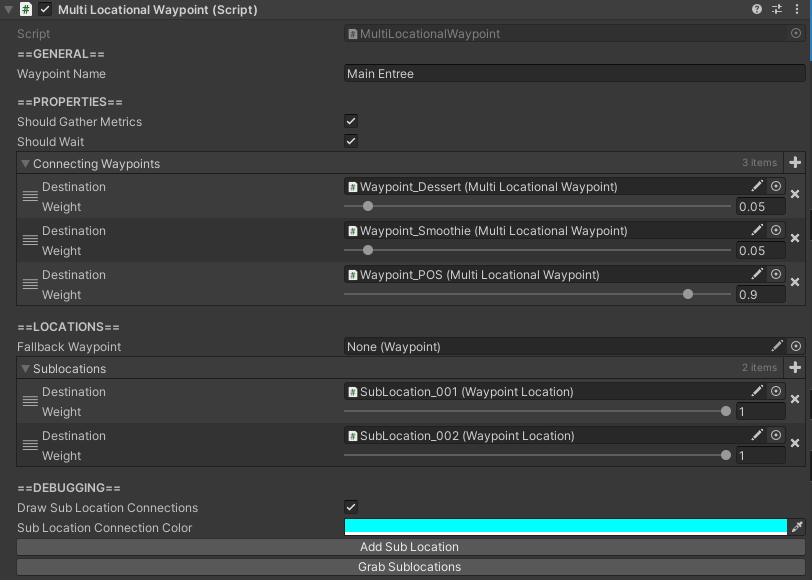
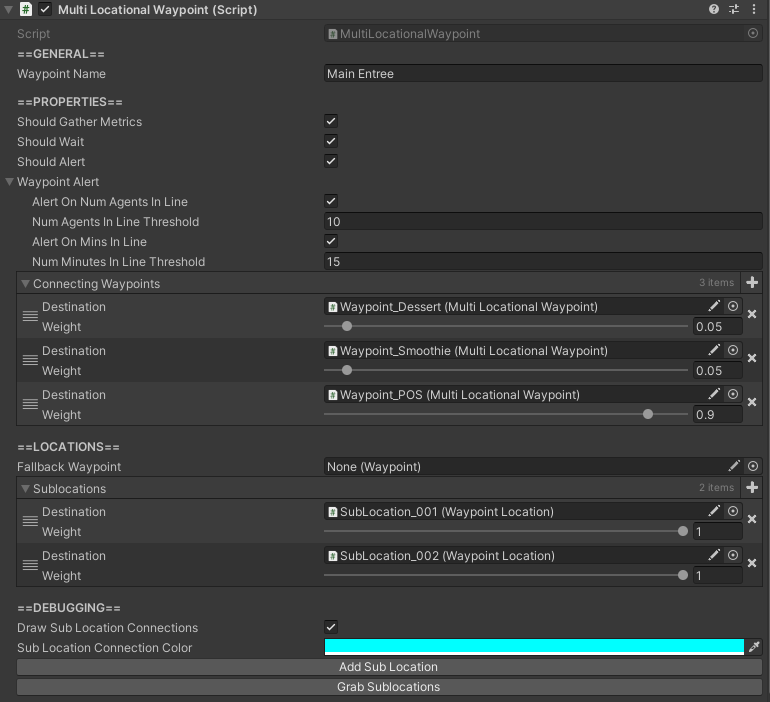
Updated to include overlapping AgentSpawnBlocks, playback menu, and other general edits

diff --git a/docs/config/simulation/agent-spawn-config.md b/docs/config/simulation/agent-spawn-config.md
@@ -4,28 +4,28 @@
 
 ## How to Locate
 
-The `AgentSpawnConfig` component is located on the GameObject named "Simulation", which can be found in the hierarchy.
+The `AgentSpawnConfig` component is located on the GameObject named "SimulationManager", which can be found in the hierarchy.
 
 ## Settings
 
 Setting | Description
 :-------- | :------------------------------------------------------------------------------------------------------------------------------------
-Constant Spawn <br />Rate | Toggles whether or not agents should spawn at a constant rate over the duration <br />of the simulation.
-Start Time | *Only applicable if `Constant Spawn Rate` is `true`.*<br />Start time of the simulation.
-Total Num <br />Agents | *Only applicable if `Constant Spawn Rate` is `true`.*<br />Total agents that will spawn between `Start Time` and `End Time`.
+Constant Spawn <br />Rate | Toggles whether or not agents should spawn at a constant rate over the duration <br />of the simulation.<br />If `true`, only a single `AgentSpawnBlock` can be configured, with an enforced <br />[`Agent Spawn Rate Smoothness`](#spawn-rate-smoothness) of 1.
 Agent Spawn <br />Blocks | *Only applicable if `Constant Spawn Rate` is `false`.*<br />List of references to [`AgentSpawnBlocks`](#agentspawnblock).
-End Time | End time of the simulation.
+Total Agents<br />To Process | *Only applicable if `Constant Spawn Rate` is `false`.*<br />A sum of all the agents that will be spawned across all spawn blocks.<br />Used for debugging only, and is not meant to be modified directly by the user.
 
 ## AgentSpawnBlock
 
-`AgentSpawnBlock`s define how agents will spawn over a period of time.  The end time for each spawn block is the start time of the next spawn block (or `End Time` if it's the last spawn block).
+`AgentSpawnBlock`s define how agents will spawn over a block of time.  Blocks are automatically ordered by their `Start Time`, and are processed in order from earliest to latest.  In other words, the order of the blocks in the list does not matter, as the list is self-organizing.
 
 ### AgentSpawnBlock Settings
 
 Setting | Description
 :-------- | :------------------------------------------------------------------------------------------------------------------------------------
-Start Time | Start time of the simulation spawn block.<br />Also acts as the end time of the spawn block listed previously to this one.
-Num Agents | Total agents that will spawn between `Start Time` of the spawn block, and the `Start Time` of the next block.
+Start Time | Start time of the simulation spawn block.
+End Time | End time of the simulation spawn block.
+Num Agents | Total agents that will spawn between `Start Time` and `End Time` of the spawn block.
+Agent Color | Color of agents that will spawn during this spawn block.
 Agent Spawn <br />Rate Smoothness | How "smooth" the agents will spawn throughout the duration of the spawn block.<br />See [Spawn Rate Smoothness](#spawn-rate-smoothness) for details.
 
 ### Spawn Rate Smoothness
@@ -40,4 +40,4 @@ If spawn rate smoothness was 1, then the lower bound for an agent's spawn rate i
 
 If the spawn rate smoothness was 0.1, then the lower bound for an agent's spawn rate is 10% of `maxTimeBetweenAgents`, which gives us a random time between 6 seconds and 1 minute.  This means that with a smoothness of 0.1, and 60 agents spawning over 1 hour, all 60 agents will spawn between 6 minutes at the lower bound, and 1 hour at the upper bound.  Randomness will determine how close to either of these bounds the simulation actually comes.
 
-In summary, the lower spawn rate smoothness, the most "clumped together" agents may spawn.  The higher it is, the most smooth and consistently agents will spawn across the duration of a spawn block.
+In summary, the lower spawn rate smoothness, the more "clumped together" agents may spawn.  The higher it is, the more smooth and consistently agents will spawn across the duration of a spawn block.

diff --git a/docs/config/waypoints/waypoints.md b/docs/config/waypoints/waypoints.md
@@ -13,6 +13,11 @@ Setting | Description
 Waypoint Name | Name of the waypoint.
 Should Gather <br />Metrics | Toggles whether or not this waypoint should gather metrics.  <br/>If false, it tracks nothing, and agents do not track anything about it.
 Should Wait | Toggles whether or not agents should wait at this waypoint.<br/>If false, agents will not spend any time at this waypoint, and will ignore the <br /> wait time specified by the waypoint's [`WaypointLocation`](waypoint-locations.md).
+Should Alert | *Only applicable if `Should Gather Metrics` is `true`.*<br />Toggles whether or not this waypoint should fire off alerts when certain <br />conditions are met.
+Alert On Num <br />Agents In Line | *Only applicable if `Should Alert` is `true`.*<br />Toggles whether or not this waypoint should fire off an alert when the number <br />of agents in line at this waypoint meets or exceeds the specified threshold.
+Num Agents <br />In Line Threshold | *Only applicable if `Alert On Num Agents In Line` is `true`.*<br />Number of agents in line at this waypoint that must be met or exceeded <br />for an alert to be fired off.
+Alert On Mins <br />In Line | *Only applicable if `Should Alert` is `true`.*<br />Toggles whether or not this waypoint should fire off an alert when the minutes <br />a single agent has spent in line at this waypoint meets or exceeds the <br />specified threshold.
+Num Minutes <br />In Line Threshold | *Only applicable if `Alert On Mins In Line` is `true`.*<br />Number of minutes a single agent can wait in line at this waypoint that must be <br />met or exceeded for an alert to be fired off.
 Connecting <br/> Waypoints | All possible [weighted](../../index.md#weights) waypoints an agent can visit after this waypoint.<br/>*Note: These can be overridden by individual sublocations of this waypoint*.
 Fallback <br />Waypoint | Waypoint that agents will use if all sublocations of this waypoint have <br />no queue and are all currently occupied.<br/>*Note: This does not need to be assigned if at least 1 sublocation has <br/>a queue*.
 Sublocations | All [weighted](../../index.md#weights) sublocations of this waypoint.<br />These are the physical locations that agents can pathfind to when visiting this <br />waypoint.
@@ -25,9 +30,17 @@ Grab Sublocations<br/>Button | Button that grabs all sublocations that are a chi
 
 To create a waypoint, simply duplicate an existing Waypoint and move it to the desired location.
 
+### Setting up Alerts
+
+To set up Alerts on a Waypoint, first make sure that `Should Gather Metrics` is `true`.  Then, set `Should Alert` to `true`.  This will allow you to set up alerts on the Waypoint.
+
+From there, you can set up alerts based on the number of agents in line at the Waypoint, or the number of minutes a single agent has spent in line at the Waypoint.
+
+When an alert is fired off, it will be added to the timeline in the [Playback](../../metrics/playback.md) menu so it can be further investigated later.
+
 ## Selecting a Waypoint
 
-To select a waypoint, simply click on the red sphere that defines the location of the waypoint while the simulation is running.
+To select a waypoint, simply click on the name label of the waypoint while the simulation is running.
 
 When a waypoint is selected correctly, its metrics display will appear.  This shows information about that waypoint, such as its name, the number of agents it has processed, the total time in line agents have spent waiting for this waypoint, and more.
 

diff --git a/docs/quick-start.md b/docs/quick-start.md
@@ -77,11 +77,20 @@ If the GameObject has children GameObjects, ensure those are marked as static as
 
 Any GameObject that does not directly block agents (such as [`PenaltyArea`s](config/simulation/penalty-area.md)) should **NOT** be marked as static, as this should only be done for solid, blocking objects.
 
+### Configuring GameObjects for the Nav Mesh
+
+After all GameObjects have been given a collider and marked as static, the next step is to ensure all objects that should block agents contain a `NavMeshModifier` component.  This component is used to tell the Nav Mesh what areas are walkable and what areas are not.
+If set up correctly, the object will appear to cut out a hole in the blue walkable area of the Nav Mesh (see [Rebaking the Nav Mesh](#rebaking-the-nav-mesh)).
+
+To add a `NavMeshModifier` component to a GameObject, select the GameObject and press the "Add Component" button near the bottom of the Inspector.  Search for "Nav Mesh Modifier" and select the component.  The default values for this component do not need to be changed.
+
 ### Rebaking the Nav Mesh
 
-To rebake the Nav Mesh, first ensure all GameObjects in the scene that should block agents are [marked as static](#marking-gameobjects-as-static) and [have colliders on them](#placing-gameobjects-and-adding-colliders).
+To rebake the Nav Mesh, first ensure all GameObjects in the scene that should block agents are [marked as static](#marking-gameobjects-as-static), [have colliders on them](#placing-gameobjects-and-adding-colliders), and [have a `NavMeshModifier` component](#configuring-gameobjects-for-the-nav-mesh) attached to them.
 
-Next, open the Navigation window.  This can be found via Unity's menu bar (Window>AI>Navigation).  Select the Bake tab in the Navigation window.  Leave the settings as they are, and click the Bake button at the bottom of the Navigation window.  If done correctly, all walkable areas should be highlighted in blue, and all non-walkable areas should not be highlighted at all.
+Next, find the GameObject that acts as the floor for the environment.  If you're using the duplicated example scene, this object is just called "Floor".  Make sure this Floor object has both a `NavMeshSurface` and `NavMeshModifier` component attached to it.  If not, add both components to the Floor object.  The default values for these components (whether you had to add them manually or not) are fine as they are and do not need to be changed.
+
+Click the Bake button at the bottom of the `NavMeshSurface` component.  If done correctly, all walkable areas should be highlighted in blue, and all non-walkable areas should not be highlighted at all.
 
 ### Configure Pathfinding Grid
 
@@ -145,6 +154,14 @@ To view and analyze metrics relating to the global state of the simulation, see 
 To view metrics specific to a single agent or waypoint, see [Specific Metrics](metrics/specific-metrics.md).
 
 To view visualizations of connections between waypoints and connections between a waypoint and it's sublocations, see [Visualizations](metrics/visualizations.md).
+
+---
+
+## Playback and Alerts
+
+To view simulation playback history and alert flags, see [Playback](metrics/playback.md).
+
+To set up alerts for specific waypoints, see [Waypoint Alerts](config/waypoints/waypoints.md#setting-up-alerts).
 
 ---
 

diff --git a/docs/metrics/playback.md b/docs/metrics/playback.md
@@ -1,0 +1,39 @@
+# Playback
+
+![Playback Menu](../img/playbackMenu.png)
+
+## How to Locate
+
+To view the playback menu, simply press 'r' to open the menu.  
+
+Please note that the simulation must be fully completed before the playback menu can be opened.  A simulation is considered fully completed when all agents have reached their final waypoint and despawned.  One can determine this is the case when the simulation time no longer increases (and the simulation is not paused).
+
+## How to Use
+
+To use the playback feature, simply use the time controls in the lower left corner to control the playback speed of the recording.  Just like with the simulation [Time Controls](../config/simulation/time-control.md), the playback speed can be paused, sped up, or slowed down.
+
+Pressing the "Play" button will play the simulation from the current time (if it is currently paused), and also reset the playback speed to 1x.
+
+The current time in the playback can also be set by clicking on the timeline to jump the playback to that moment in time, similar to how a YouTube video might work.
+
+The current progress of the playback is displayed above the timeline, showing the current time in the playback, as well as the percentage of the playback that has been completed.
+
+## Viewing Alerts
+
+Alerts are displayed on the timeline as yellow "flags".  These flags can be clicked on to view the alert in more detail.  The alert will detail which waypoint fired off the alert, what type of alert it was, and a description about what specifically caused the alert to be fired off.
+
+Currently, alerts are fired off once and only once when a specific condition is met.  This means that if the condition is met again on the same waypoint, the alert will not be fired off again.  For example, if a waypoint is set to fire off an alert when the waypoint's line gets past 10 agents, the alert will fire off only when this threshold is met.  If the line then shortens to 9 agents, and then grows back to 11 agents, the alert will not fire off again.  This is to prevent the timeline from being cluttered with alerts that are fired off multiple times for essentially the same reason.
+
+In the future, we may add the ability to define a cool-down period for alerts, so that they can be fired off again after a certain amount of time has passed, or once a condition has been unmet and then met again.
+
+## Limitations
+
+Currently, the playback feature is limited in the following ways:
+
+- Simulations must be fully completed before they can be played back.
+- Playback frame rate is limited to prevent performance issues and may cause playback to appear choppy.
+- Simulation playback is not able to be saved or exported in any way, meaning that once the simulation is closed, the playback is lost.
+- Playback recordings have a low max memory constraint, meaning that simulations with a large number of agents or long durations may lead to memory issues which can cause the simulation to crash.
+- Only agents are recorded in the playback, meaning metrics changing over time (such as the number of agents processed by a waypoint at that point in time) are not recorded and cannot be viewed changing over time.
+
+All of the above limitations can be overcome by further development.

diff --git a/docs/config/waypoints/lerpable-lines.md b/docs/config/waypoints/lerpable-lines.md
@@ -24,19 +24,24 @@ Member Spacing<br/>Visualization Color | *Only applicable if `Draw Member Spacin
 
 ## Line Nodes
 
-A `LerpableLine` is simply a path defined by a list of points.  Each point is represented by a single `Transform` on a GameObject that is a child of the GameObject containing the `LerpableLine` component.  Each Line Node is named "LerpableLineNode_???" with the "???" representing the order of the nodes.
+A `LerpableLine` is simply a path defined by a list of points.  Each point is represented by a single `Transform` on a GameObject that is a child of the GameObject containing the `LerpableLine` component.  Each Line Node is named "LerpableLineNode_???" with the "???" representing the order of the nodes.  
+
+However, the name is purely for organizational purposes, as the order of the nodes is determined by the order of the nodes in the `Nodes` list.
 
 ### How to Create and Position Line Nodes
 
-To create Line Nodes, simply create an Empty GameObject, or duplicate an existing line node.  Rename the Line Node to reflect the order it will be in the path.
+To create Line Nodes, simply press the "Add Path Node" button at the bottom of the component.  This will automatically create, name, and add the new node to the `Nodes` list.  Then, simply move the node to the desired location.
 
 Position the node to the desired location.
 
-### How to Assign Line Nodes to the Path
+### How to Remove Line Nodes
 
-Simply assign the node GameObjects in the `Nodes` list in the order the path should be formed.  Ensure that no empty slots remain in the `Nodes` list, as this will cause the `LerpableLine` to work incorrectly.
+Simply select the node you want to remove and delete it.  The `Nodes` list will automatically update.
+
+### How to Change the Order of Line Nodes
+
+The order a agent will progress through a `LerpableLine` is determined by the order of the nodes in the `Nodes` list.  To change the order, simply drag and drop the nodes in the list to the desired order.  This can be done by clicking and dragging three horizontal lines to the left of the node name.
 
 ## Tips
 
-- To more easily position [Line Nodes](#line-nodes), first assign them to the `Nodes` list so they can be visualized.
-- Keep the naming of the [Line Nodes](#line-nodes) consistent and reflective of their order in the path to maintain organization and more easily perform maintenance.
+- Always use the "Add Path Node" button to add new nodes.  This will ensure that the node is properly named and added to the `Nodes` list.  Creating nodes manually can result in errors if not set up correctly.

diff --git a/docs/config/agents/agent-manager.md b/docs/config/agents/agent-manager.md
@@ -10,7 +10,7 @@ The `AgentManager` component is located on the GameObject with the name "AgentMa
 
 Setting | Description
 :-------- | :------------------------------------------------------------------------------------------------------------------------------------
-Auto Simulate | Toggles whether or not agents should automatically simulate.<br />If `true`, agents will simulate according to their configured time blocks as soon as the <br />simulation is started.
+Auto Simulate | Toggles whether or not agents should automatically simulate.<br />If `true`, agents will simulate according to their configured time blocks as soon <br />as the simulation is started.
 Agent | [**ADVANCED USER SETTING**](../../index.md#advanced-user-settings). Reference to agent to use in simulation.
 Spawn Pos | Reference to the position where agents will spawn when they first enter the <br />simulation.
 Planner | [**ADVANCED USER SETTING**](../../index.md#advanced-user-settings). Reference to the WaypointPlanner agents use to <br />create their Plan

diff --git a/docs/index.md b/docs/index.md
@@ -27,4 +27,4 @@ Currently, the simulation has a few limitations in its functionality.  Here are 
 - Long queues that push into walls perpendicular to the average direction of the queue don't always wrap correctly
 - Poor performance when using the `ALWAYS` local avoidance type.  This is unavoidable without huge changes to the underlying agent logic to convert it to an ECS-based architecture.
 - Simulation may be inaccurate in pathfinding and agent processing at high simulation time scales.  If you notice poor framerate while simulating, and accuracy is also an issue, try turning down the time scale for improvements
-- Creation and setup of [`ProgressionPath`s](config/waypoints/progression-paths.md) and [`LerpableLine`s](config/waypoints/lerpable-lines.md) is not as user-friendly and self-correcting as it can be
+- Various limitations surrounding recording and playback.  See [Playback](metrics/playback.md#limitations) for more details.
